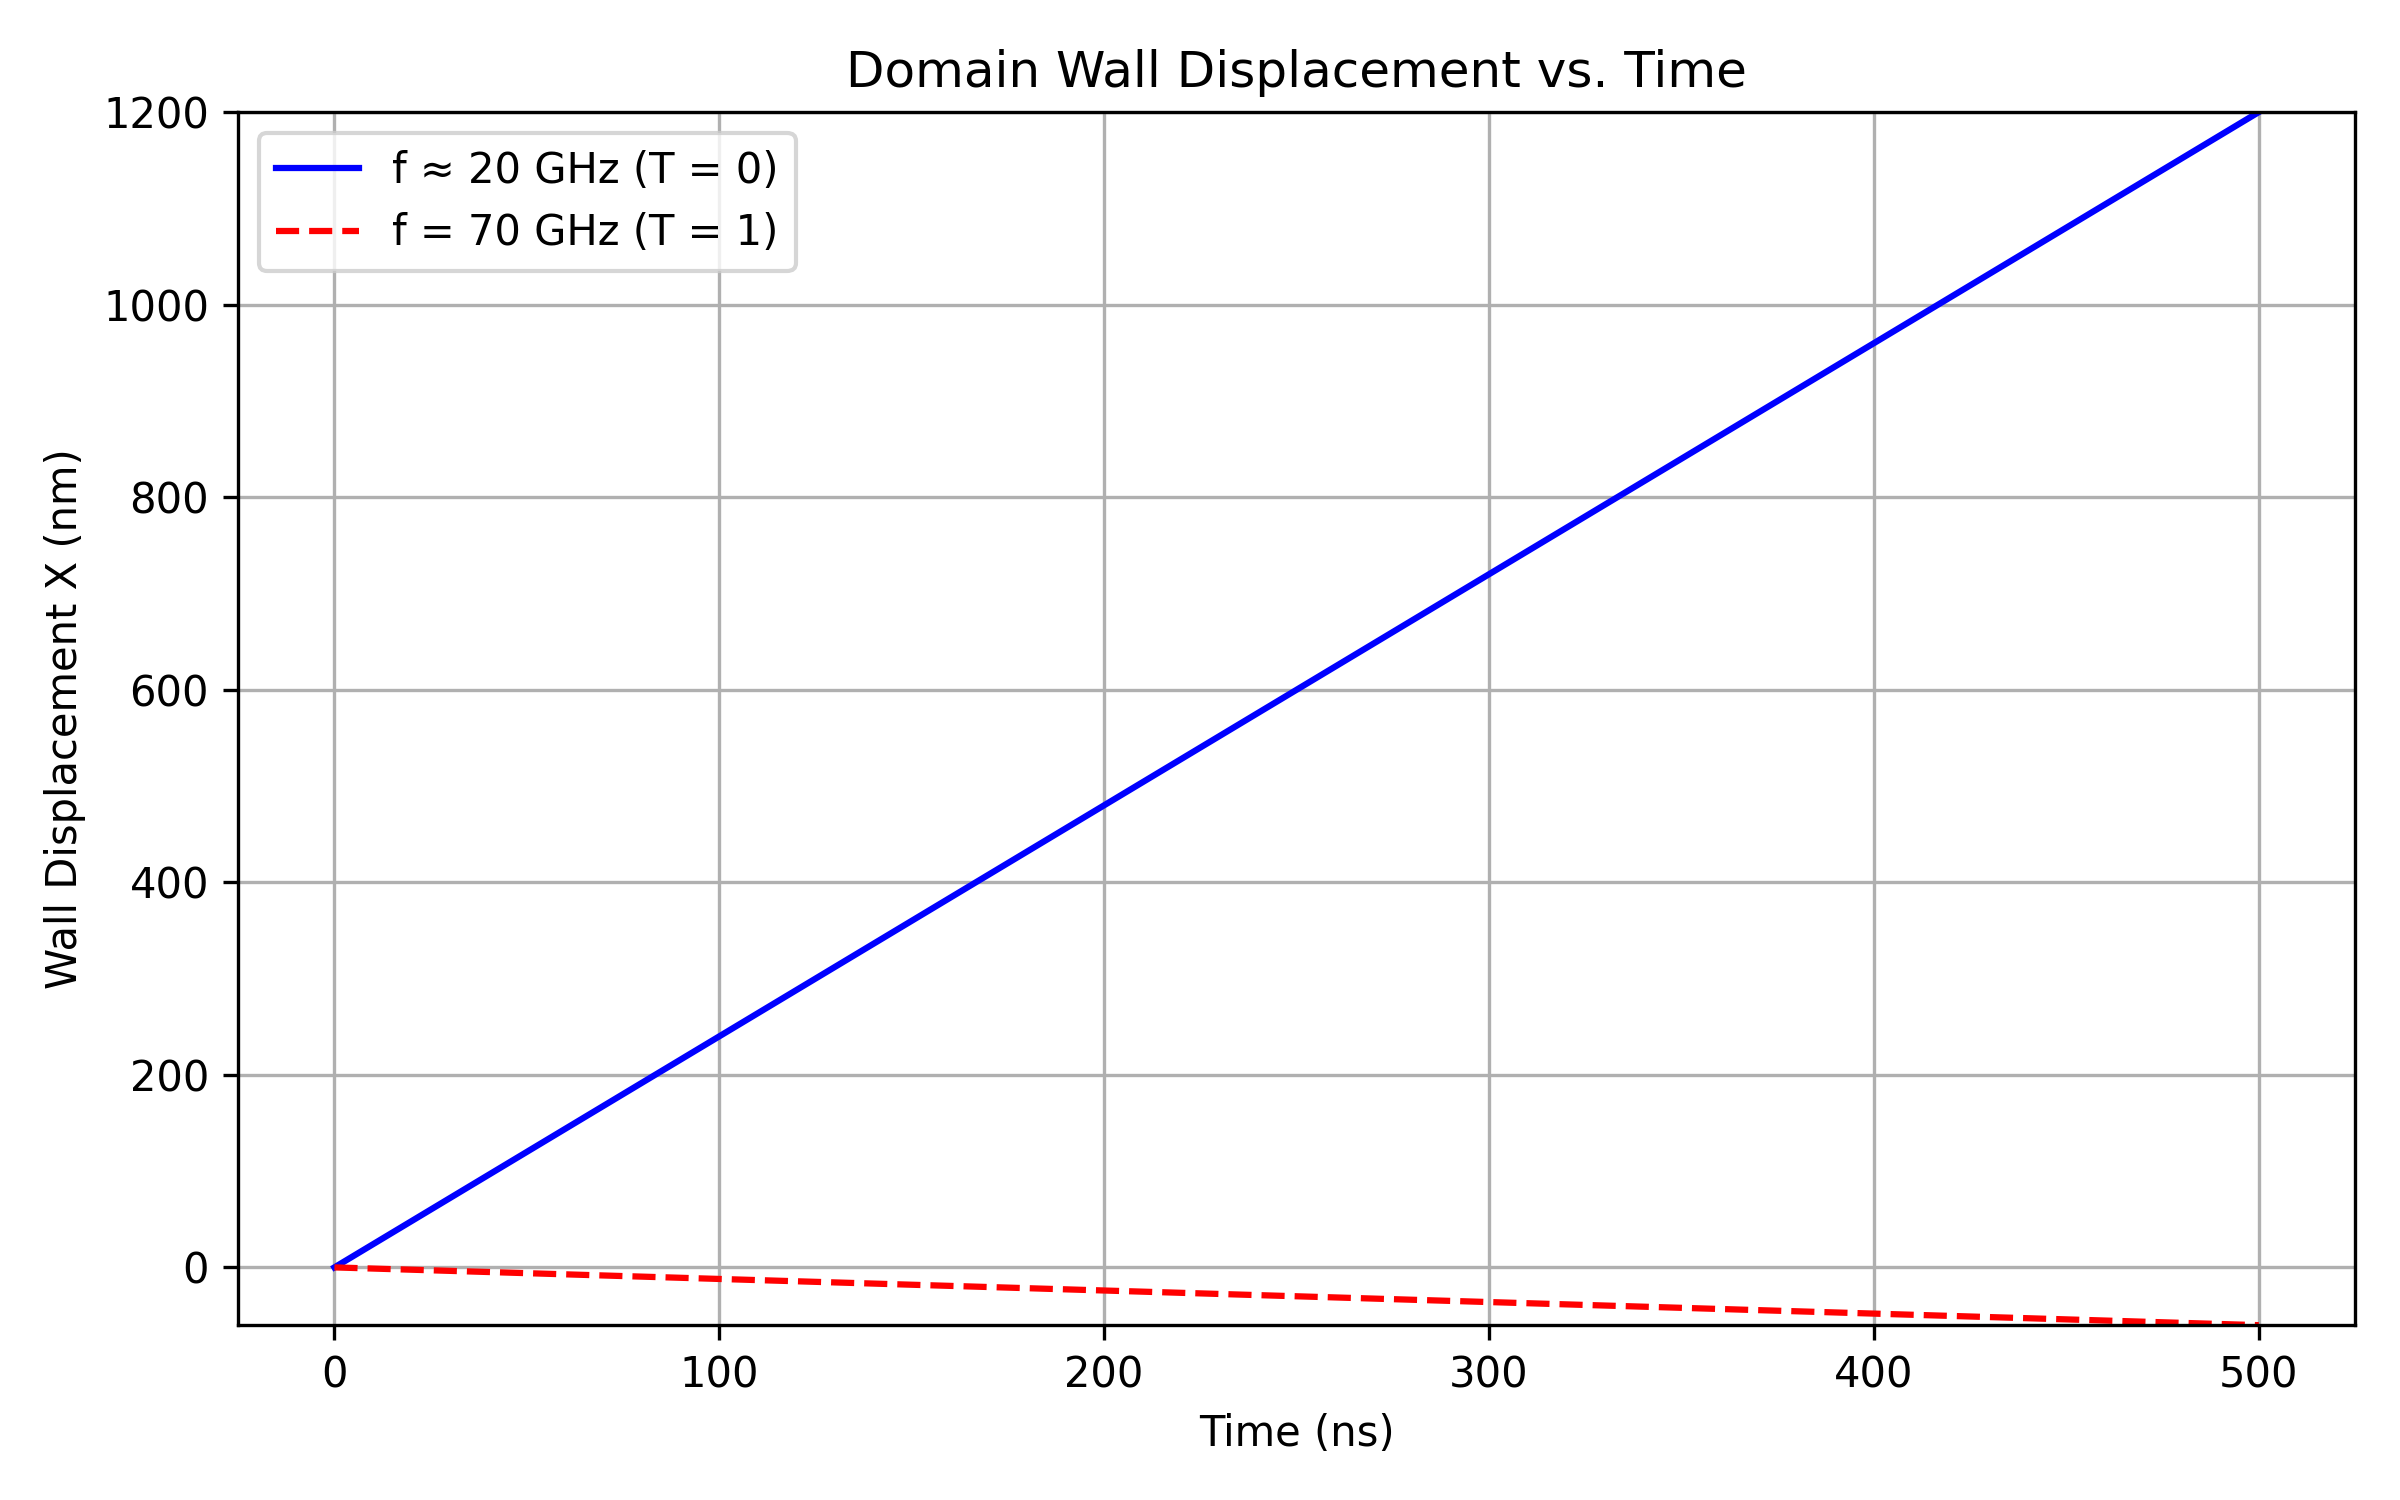
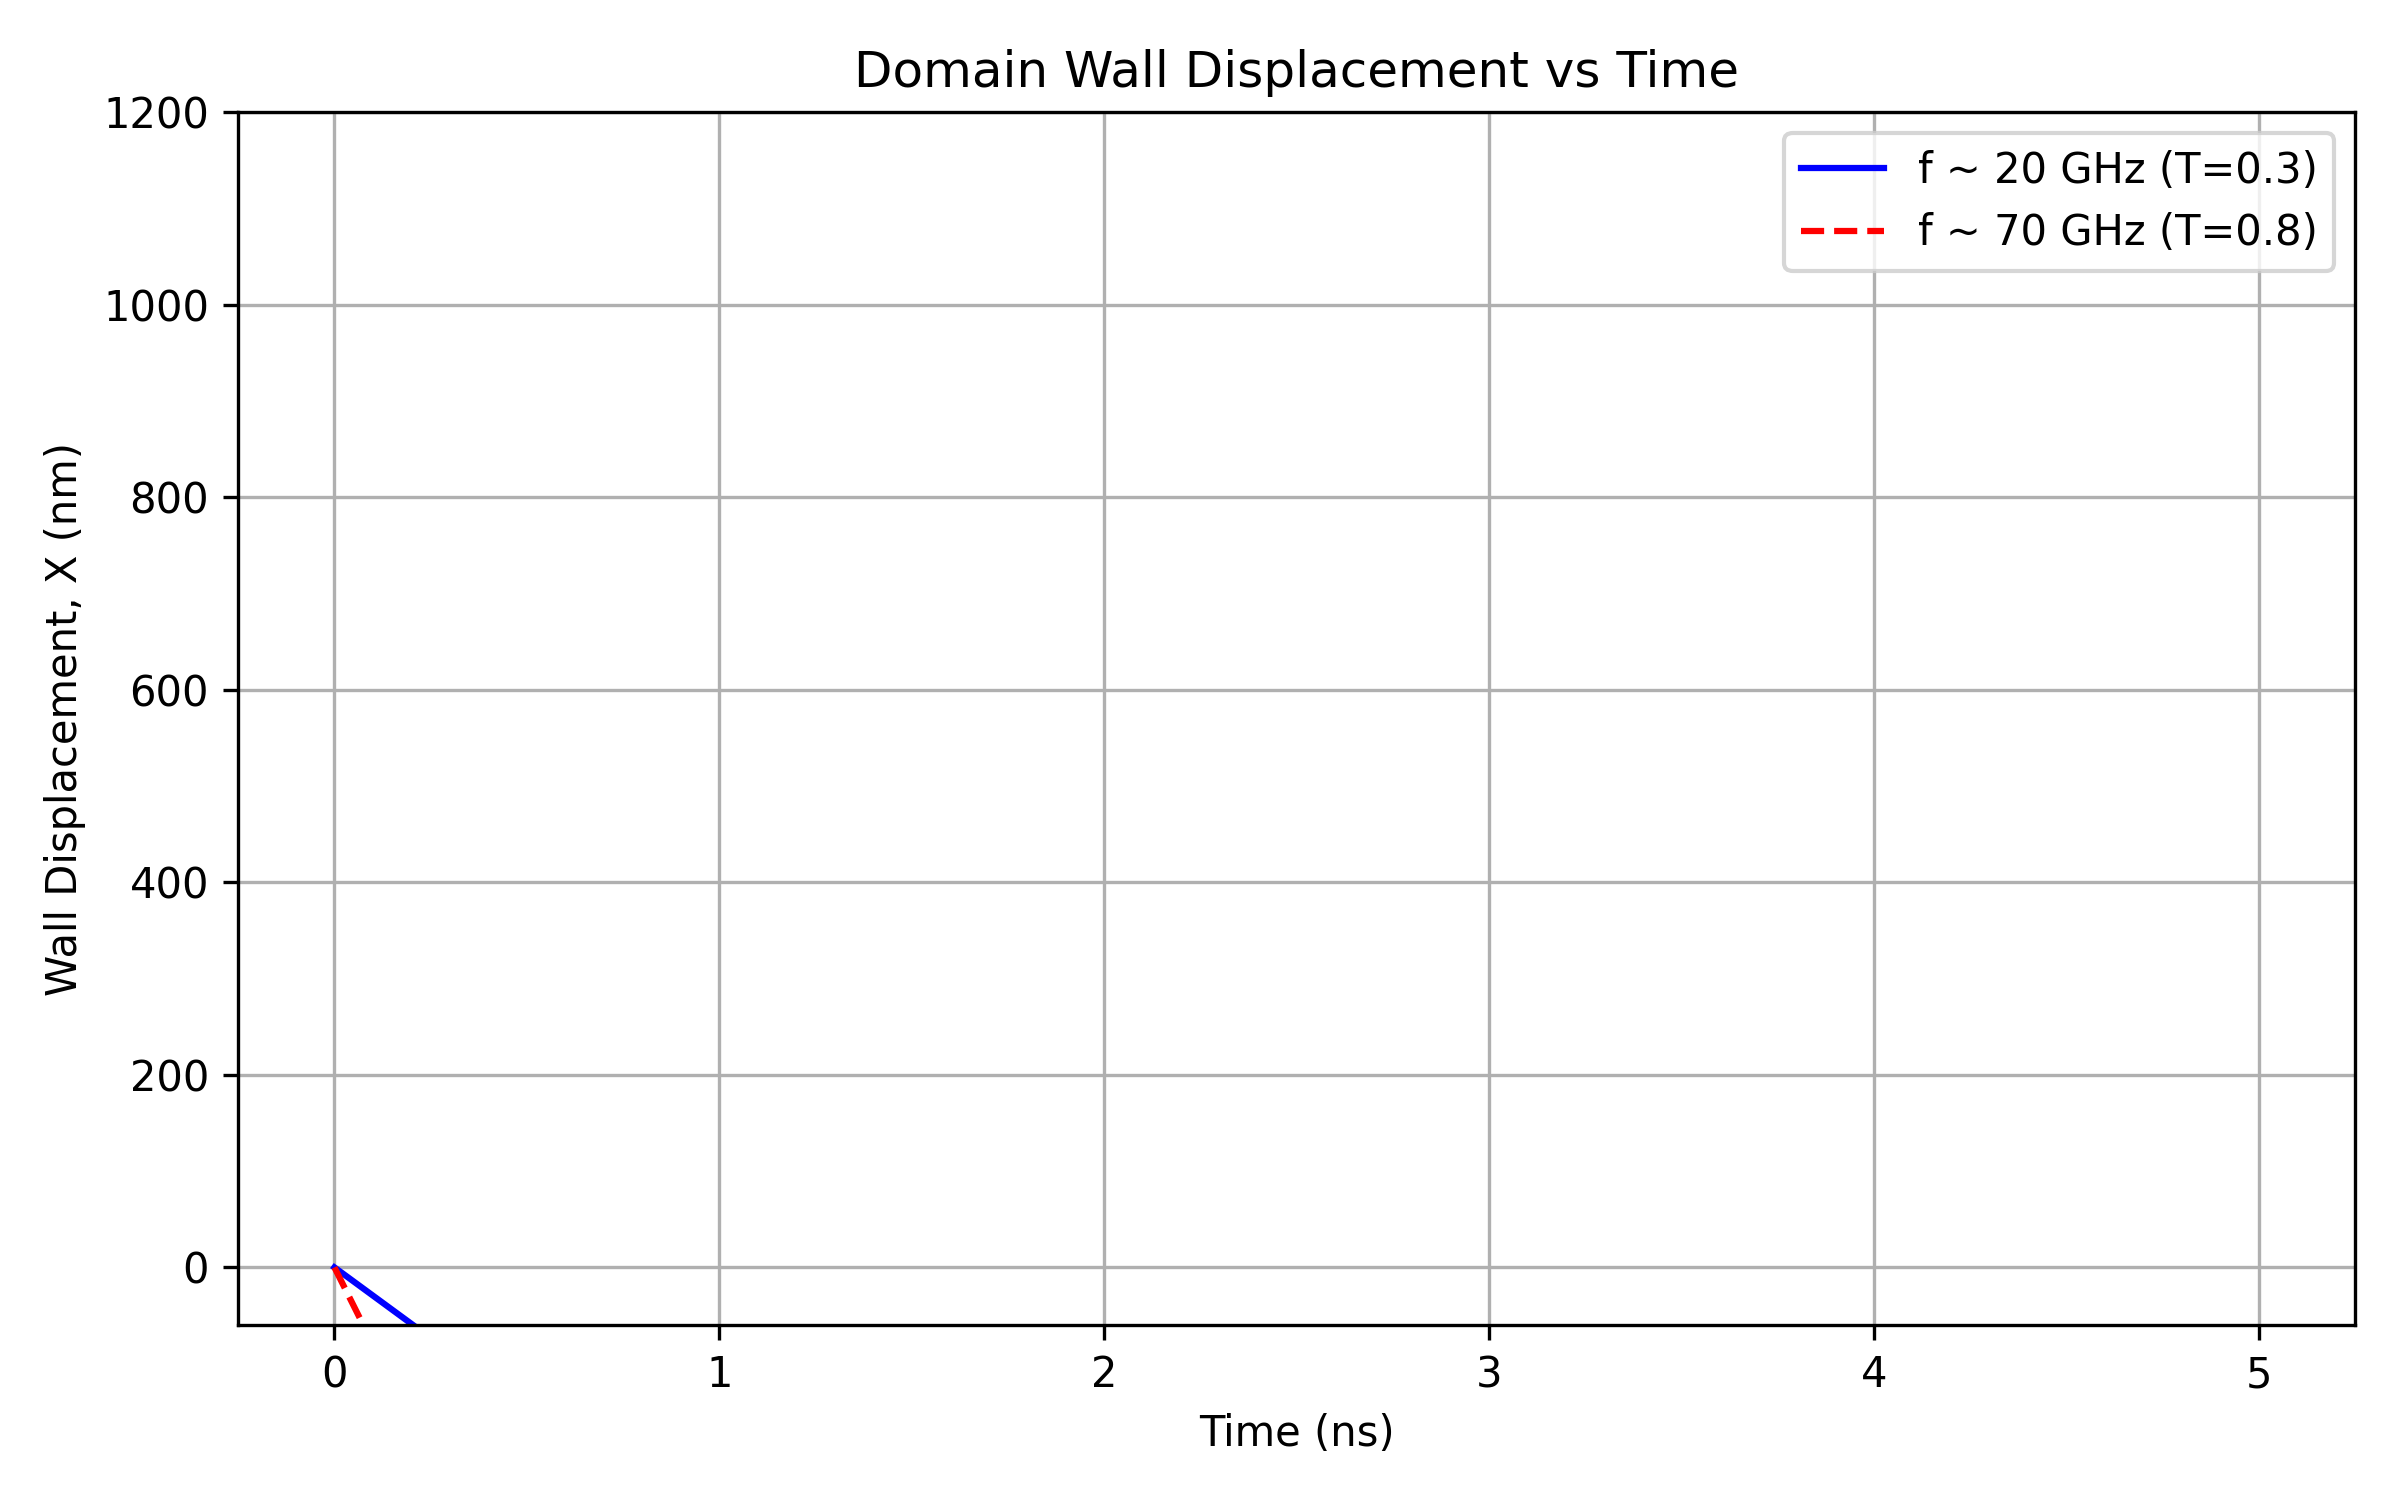
img new

diff --git a/new.py b/new.py
@@ -2,74 +2,95 @@ import numpy as np
 import matplotlib.pyplot as plt
 from scipy.integrate import solve_ivp
 
-# Define physical parameters (SI units)
-mu0 = 4 * np.pi * 1e-7      # Vacuum permeability, H/m
-Ms = 8.6e5                  # Saturation magnetization, A/m
-alpha = 0.01                # Gilbert damping constant
-gamma = 2.21e5              # Gyromagnetic ratio, m/(A·s) (approximate)
+# -----------------------------
+# 1) Physical and model parameters
+# -----------------------------
+mu0 = 4.0 * np.pi * 1e-7    # Vacuum permeability (H/m)
+Ms = 8.6e5                  # Saturation magnetization (A/m)
+alpha = 0.01                # Gilbert damping
+gamma = 2.21e5              # Gyromagnetic ratio (m / (A·s)) approx
 Nx_minus_Ny = 0.05          # Difference in demagnetizing factors
+# Effective anisotropy for the Bloch wall
+Kd = (Nx_minus_Ny) / (2.0 * mu0 * Ms**2)
 
-# Effective anisotropy for the Bloch wall:
-Kd = (Nx_minus_Ny) / (2 * mu0 * Ms**2)
+# For simplicity, we use the same "u" for both frequencies,
+# but we vary the transmission T to control the sign of the velocity.
+u_value = 1000.0  # (m/s) "effective" spin-wave velocity parameter
 
-# Precompute common denominator and constant A
-denom = 1 + alpha**2
+# Precompute helpful factors
+denom = 1.0 + alpha**2
 A = gamma * (Kd / (mu0 * Ms))  # multiplies sin(2phi)
 
-def wall_dynamics(t, y, T, u):
+# -----------------------------
+# 2) Define the ODEs
+# -----------------------------
+def wall_equations(t, y, T, u):
     """
-    y[0] = X (wall position)
-    y[1] = phi (tilt angle in radians)
-    
-    T: transmission coefficient (T ~ 0 for nearly full reflection; T ~ 1 for nearly full transmission)
-    u: effective spin-wave parameter (different for each frequency case)
+    y[0] = X(t)   (domain wall position)
+    y[1] = phi(t) (tilt angle in radians)
+    T     = transmission coefficient
+    u     = spin-wave velocity parameter
     """
     X, phi = y
-    dX_dt = (1/denom) * ( A * np.sin(2 * phi) - T * u + (1 - T) * alpha * u )
-    dphi_dt = (1/denom) * ( -A * np.sin(2 * phi) + (1 - T) * u + T * alpha * u )
+    
+    # dX/dt  = [ A sin(2 phi ) - T*u + (1 - T)*alpha*u ] / (1 + alpha^2)
+    # dphi/dt= [ -A sin(2 phi ) + (1 - T)*u + T*alpha*u ] / (1 + alpha^2)
+    dX_dt = ( A * np.sin(2*phi) - T*u + (1.0 - T)*alpha*u ) / denom
+    dphi_dt = ( -A * np.sin(2*phi) + (1.0 - T)*u + T*alpha*u ) / denom
     return [dX_dt, dphi_dt]
 
-# Set simulation time: 0 to 500 ns
-t_start = 0
-t_end = 500e-9  # 500 ns
-t_eval = np.linspace(t_start, t_end, 1000)
+# -----------------------------
+# 3) Simulation setup
+# -----------------------------
+# We simulate from t=0 to t=5 ns so we can see the transient, curved behavior.
+t_start = 0.0
+t_end   = 5e-9  # 5 ns
+t_eval  = np.linspace(t_start, t_end, 1000)
 
-# Initial conditions: X = 0 and phi = pi/2
-y0 = [0, np.pi/2]
+# Initial conditions: X=0, phi=pi/2
+y0 = [0.0, np.pi/2]
 
-# Case 1: Low-frequency (~20 GHz) with nearly full reflection, T ~ 0.
-# We choose u_low so that the steady state velocity ~ (alpha*u_low) gives ~1200 nm over 500 ns.
-#  Desired displacement: 1200e-9 m over 500e-9 s -> velocity ~ 2.4 m/s.
-# Since for T = 0, steady state v = (alpha*u_low) (with alpha small), choose:
-u_low = 240.0  # m/s, so alpha*u_low = 2.4 m/s
-T_low = 0.0
-sol_low = solve_ivp(wall_dynamics, [t_start, t_end], y0, args=(T_low, u_low), t_eval=t_eval)
+# -----------------------------
+# 4) Solve for two "frequencies"
+#    We mimic "f=20 GHz" by picking T=0.3 (mostly reflection => positive motion)
+#    We mimic "f=70 GHz" by picking T=0.8 (mostly transmission => negative motion)
+# -----------------------------
+T_20GHz = 0.3   # partial reflection, net positive velocity
+T_70GHz = 0.8   # mostly transmission, net negative velocity
 
-# Case 2: High-frequency (70 GHz) with nearly full transmission, T ~ 1.
-# For T = 1, the initial (and steady-state) velocity is about -u_high (since -u_high + alpha*u_high ~ -u_high)
-# To have a displacement near -60 nm over 500 ns, we need v ≈ -60e-9/500e-9 = -0.12 m/s.
-# So choose u_high ≈ 0.12 m/s.
-u_high = 0.12  # m/s
-T_high = 1.0
-sol_high = solve_ivp(wall_dynamics, [t_start, t_end], y0, args=(T_high, u_high), t_eval=t_eval)
+sol_20 = solve_ivp(
+    wall_equations, [t_start, t_end], y0, 
+    args=(T_20GHz, u_value), t_eval=t_eval
+)
 
-# Create the plot
-plt.figure(figsize=(8, 5))
-# Convert time to ns and displacement to nm.
-plt.plot(sol_low.t * 1e9, sol_low.y[0] * 1e9, label='f ≈ 20 GHz (T = 0)', color='blue')
-plt.plot(sol_high.t * 1e9, sol_high.y[0] * 1e9, label='f = 70 GHz (T = 1)', color='red', linestyle='--')
+sol_70 = solve_ivp(
+    wall_equations, [t_start, t_end], y0, 
+    args=(T_70GHz, u_value), t_eval=t_eval
+)
+
+# Convert time (s -> ns) and position (m -> nm)
+time_20 = sol_20.t * 1e9
+X_20    = sol_20.y[0] * 1e9
+time_70 = sol_70.t * 1e9
+X_70    = sol_70.y[0] * 1e9
+
+# -----------------------------
+# 5) Plot results
+# -----------------------------
+plt.figure(figsize=(8,5))
+plt.plot(time_20, X_20, 'b', label='f ~ 20 GHz (T=0.3)')
+plt.plot(time_70, X_70, 'r--', label='f ~ 70 GHz (T=0.8)')
 
 plt.xlabel('Time (ns)')
-plt.ylabel('Wall Displacement X (nm)')
-plt.title('Domain Wall Displacement vs. Time')
-plt.legend()
+plt.ylabel('Wall Displacement, X (nm)')
+plt.title('Domain Wall Displacement vs Time')
 plt.grid(True)
+plt.legend()
 
-# Set y-axis limits: from -60 nm to 1200 nm
-plt.ylim(-60, 1200)
+# Force y-axis from -60 to +1200 nm
+plt.ylim([-60, 1200])
+
 plt.tight_layout()
-
-# Save the figure as a PNG file
-plt.savefig("2domain_wall_displacement.png", dpi=300)
+plt.savefig('domain_wall_displacement.png', dpi=300)
 plt.show()
 
